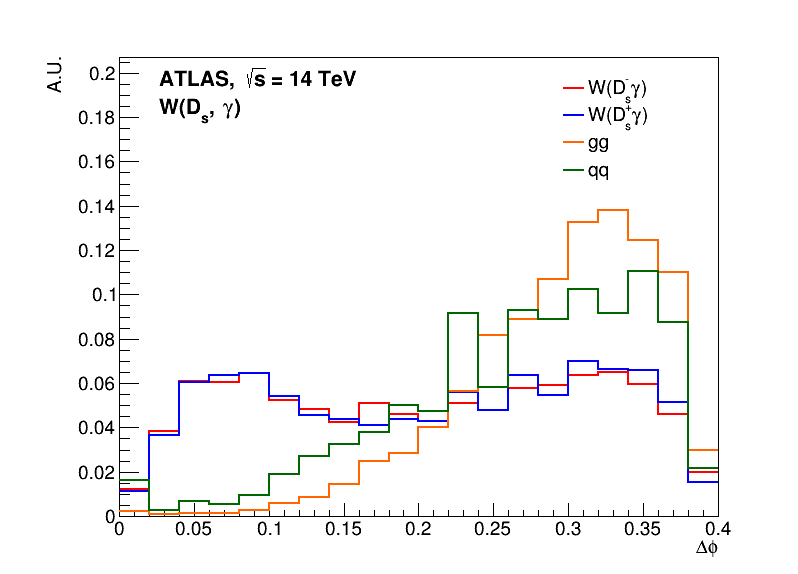
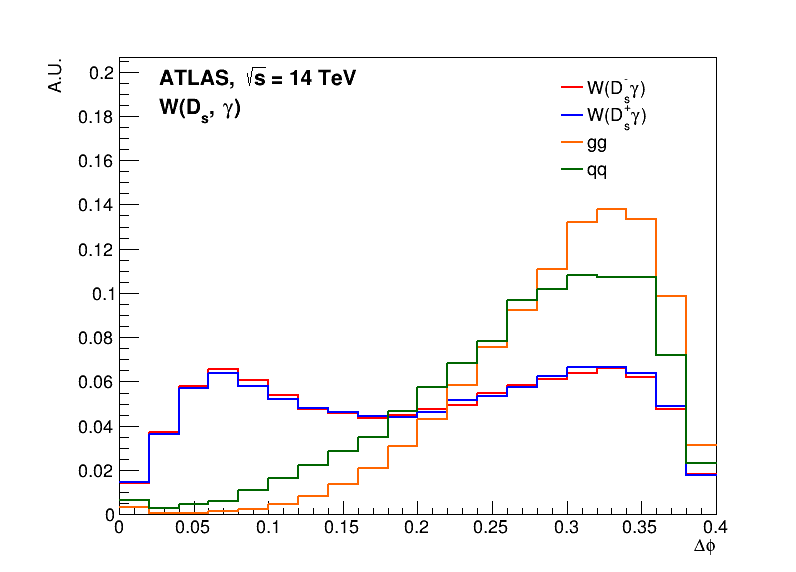
One NaN solve, new plots

diff --git a/PlotDifferences.cpp b/PlotDifferences.cpp
@@ -26,17 +26,17 @@ void myText(Double_t x,Double_t y,Color_t color, const char *text) {
 
 void PlotDifferences() {
 
-    std::string output_folder  = "./variable_plots/";
+    std::string output_folder  = "./variable_plots_4sample/";
 
     std::string llable = "ATLAS, #sqrt{s} = 14 TeV";
     std::string reg_lab = "W(D_{s}, #gamma)";
 
     std::vector<std::string> legend_names = {"W(D_{s}^{-}#gamma)", "W(D_{s}^{+}#gamma)", "gg", "qq"};
 
-    std::vector<std::string> file = {"AnalysisTool/files/ntuple_wminus_ds_gamma.root",
-                                     "AnalysisTool/files/ntuple_wplus_ds_gamma.root",
-                                     "AnalysisTool/files/ntuple_gg_background.root",
-                                     "AnalysisTool/files/ntuple_qq_background.root"};
+    std::vector<std::string> file = {"AnalysisTool/files/wminus_ntuples.root",
+                                     "AnalysisTool/files/wplus_ntuples.root",
+                                     "AnalysisTool/files/gg_ntuples.root",
+                                     "AnalysisTool/files/qq_ntuples.root"};
 
     std::vector<std::string> variables = {"delta_eta", 
                                           "delta_phi",

diff --git a/AnalysisTool/src/analysis/ntupler/NTupler.cpp b/AnalysisTool/src/analysis/ntupler/NTupler.cpp
@@ -227,7 +227,7 @@ void NTupler::ProcessEvent() {
 
         // transverse pT
         for (uint k = 0; k < Pcone.size(); k++)
-            Pcone[k] /= trackJet.Perp();
+            Pcone[k] /= (trackJet.Perp() + std::numeric_limits<double>::epsilon());
 
         // fcores and pcores
         for (int k = 1; k < JET_CONE_N; k++)
